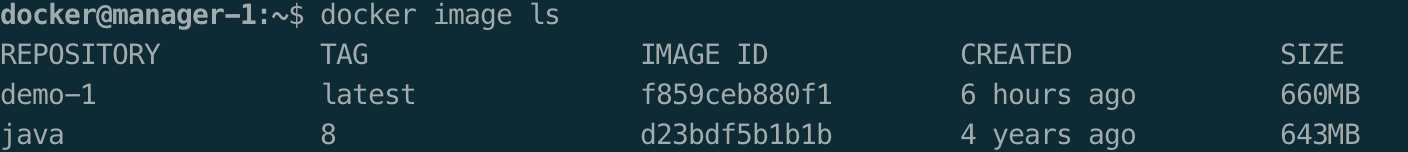
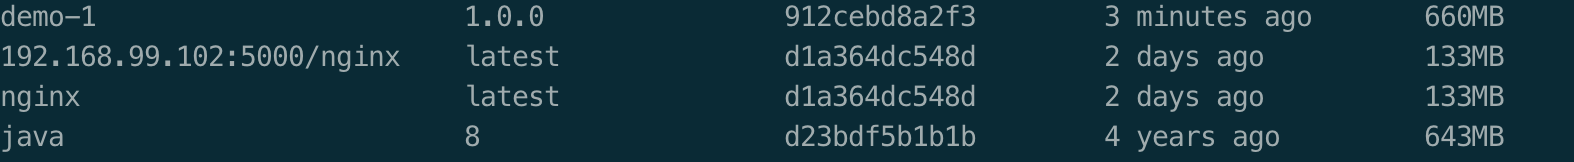
Site updated: 2021-05-28 18:11:16

diff --git a/2021/03/07/Docker-Swarm入门/index.html b/2021/03/07/Docker-Swarm入门/index.html
@@ -109,7 +109,8 @@
 <ol>
 <li><p>借助<a href="/willis-blog/2021/05/18/Docker%E5%B7%A5%E5%85%B7-Docker%20Machine/">Docker Machine</a>, 创建4个虚拟机</p>
 <figure class="highlight shell"><table><tr><td class="gutter"><pre><span class="line">1</span><br><span class="line">2</span><br><span class="line">3</span><br><span class="line">4</span><br><span class="line">5</span><br><span class="line">6</span><br><span class="line">7</span><br><span class="line">8</span><br><span class="line">9</span><br><span class="line">10</span><br></pre></td><td class="code"><pre><span class="line"><span class="meta">#</span><span class="bash"> 创建一个名为manager-1的manager节点</span></span><br><span class="line">docker-machine create -d virtualbox --engine-registry-mirror http://hub-mirror.c.163.com manager-1</span><br><span class="line"></span><br><span class="line"><span class="meta">#</span><span class="bash"> 创建三个名字分别为worker-1-1、worker-1-2、worker-1-3的worker节点</span></span><br><span class="line">docker-machine create -d virtualbox --engine-registry-mirror http://hub-mirror.c.163.com worker-1-1</span><br><span class="line">docker-machine create -d virtualbox --engine-registry-mirror http://hub-mirror.c.163.com worker-1-2</span><br><span class="line">docker-machine create -d virtualbox --engine-registry-mirror http://hub-mirror.c.163.com worker-1-3</span><br><span class="line"></span><br><span class="line"><span class="meta">#</span><span class="bash"> 查看虚拟机列表,看是否创建成功</span></span><br><span class="line">docker-machine ls</span><br></pre></td></tr></table></figure>
-<p> <img src="/willis-blog/images/2021-03-07/swarm-1.png" alt="docker-machine的虚拟机列表"></p>
+<p><img src="/willis-blog/images/2021-03-07/swarm-1.png" alt="docker-machine的虚拟机列表"><br>tips: 如果向使用自己创建的私有registry的http推送,需要在创建虚拟机时添加选项:–engine-insecure-registry IP:port,如下</p>
+<figure class="highlight shell"><table><tr><td class="gutter"><pre><span class="line">1</span><br></pre></td><td class="code"><pre><span class="line">docker-machine create -d virtualbox --engine-registry-mirror http://hub-mirror.c.163.com --engine-insecure-registry 192.168.99.102:5000 worker-1-3</span><br></pre></td></tr></table></figure>
 </li>
 <li><p>使用上述虚拟机搭建一个简单swarm集群</p>
 <figure class="highlight shell"><table><tr><td class="gutter"><pre><span class="line">1</span><br><span class="line">2</span><br><span class="line">3</span><br><span class="line">4</span><br><span class="line">5</span><br><span class="line">6</span><br><span class="line">7</span><br><span class="line">8</span><br><span class="line">9</span><br><span class="line">10</span><br><span class="line">11</span><br></pre></td><td class="code"><pre><span class="line"><span class="meta">#</span><span class="bash"> 进入虚拟机manager-1</span></span><br><span class="line">docker-machine ssh manager-1</span><br><span class="line"></span><br><span class="line"><span class="meta">#</span><span class="bash"> 在manager-1 中初始化docker</span></span><br><span class="line">docker swarm init</span><br><span class="line"></span><br><span class="line"><span class="meta">#</span><span class="bash"> 分别进入worker-1-1、worker-1-2、worker-1-3中,已worker的身份加入到swarm集群中</span></span><br><span class="line">docker-machine ssh worker-1-1</span><br><span class="line"><span class="meta">#</span><span class="bash"> 以worker身份加入swarm集群</span></span><br><span class="line">docker swarm join --token SWMTKN-1-1uj0knx6jcen266fuwbka8wpnztvj811zym3l8tu75o1p1yn44-0yid757x70ebj0grai9ntj503 192.168.99.103:2377</span><br><span class="line"></span><br></pre></td></tr></table></figure>
@@ -124,11 +125,16 @@
 <li><p>java项目镜像构建<br>sample项目地址:<a target="_blank" rel="noopener" href="https://gitee.com/willis-song/notes/tree/master/docker-java-demo">https://gitee.com/willis-song/notes/tree/master/docker-java-demo</a><br>项目基于springboot, 先试用mvn打包成可执行jar. Dockerfile内容如下</p>
 <figure class="highlight shell"><table><tr><td class="gutter"><pre><span class="line">1</span><br><span class="line">2</span><br><span class="line">3</span><br><span class="line">4</span><br><span class="line">5</span><br><span class="line">6</span><br><span class="line">7</span><br><span class="line">8</span><br></pre></td><td class="code"><pre><span class="line">FROM java:8</span><br><span class="line">WORKDIR /app</span><br><span class="line">ENV LOG_PATH=&quot;/data0/logs/java/demo-1&quot;</span><br><span class="line"><span class="meta">#</span><span class="bash"> 复制的路径是相当于build命令传入的context路径</span></span><br><span class="line">COPY ./docker-java-demo-1.0.0-SNAPSHOT.jar /app</span><br><span class="line">RUN mkdir -p /data0/logs/java/demo-1</span><br><span class="line"><span class="meta">#</span><span class="bash"> 运行java程序</span></span><br><span class="line">CMD [&quot;java&quot;, &quot;-jar&quot;, &quot;docker-java-demo-1.0.0-SNAPSHOT.jar&quot;]</span><br></pre></td></tr></table></figure>
 <p>Dockerfile常用方法参考<a href="https://willis-song.gitee.io/willis-blog/2020/11/09/Docker%E5%88%9D%E6%8E%A2/">Docker初探</a><br>在管理者节点manager-1上build镜像.<br>注意: 本例没有搭建registry,为了保证每个工作节点能正常发布,需要在每个worker节点的docker上构建镜像.当使用了自己的registry后,只要构建镜像并推送上去后,其他worker节点也适用同一个registry就可以直接拉取镜像下来了.</p>
-<figure class="highlight shell"><table><tr><td class="gutter"><pre><span class="line">1</span><br></pre></td><td class="code"><pre><span class="line">docker image build -t demo-1 .</span><br></pre></td></tr></table></figure>
+<figure class="highlight shell"><table><tr><td class="gutter"><pre><span class="line">1</span><br></pre></td><td class="code"><pre><span class="line">docker image build -t demo-1:1.0.0 .</span><br></pre></td></tr></table></figure>
 <p> <img src="/willis-blog/images/2021-03-07/swarm-3.png" alt="docker镜像列表"></p>
 </li>
+<li><p>将本地镜像打标签到私有registry(这一步是为了实现完整流程)</p>
+<figure class="highlight shell"><table><tr><td class="gutter"><pre><span class="line">1</span><br><span class="line">2</span><br><span class="line">3</span><br><span class="line">4</span><br><span class="line">5</span><br><span class="line">6</span><br><span class="line">7</span><br><span class="line">8</span><br></pre></td><td class="code"><pre><span class="line">docker@manager-1:~/app/demo$ docker image tag demo-1:1.0.0 192.168.99.102:5000/demo-1:1.0.0</span><br><span class="line">docker@manager-1:~/app/demo$ docker image ls</span><br><span class="line">REPOSITORY                   TAG                 IMAGE ID            CREATED             SIZE</span><br><span class="line">192.168.99.102:5000/demo-1   1.0.0               912cebd8a2f3        49 seconds ago      660MB</span><br><span class="line">demo-1                       1.0.0               912cebd8a2f3        49 seconds ago      660MB</span><br><span class="line">192.168.99.102:5000/nginx    latest              d1a364dc548d        2 days ago          133MB</span><br><span class="line">nginx                        latest              d1a364dc548d        2 days ago          133MB</span><br><span class="line">java                         8                   d23bdf5b1b1b        4 years ago         643MB</span><br></pre></td></tr></table></figure>
+<p>推送到registry</p>
+<figure class="highlight shell"><table><tr><td class="gutter"><pre><span class="line">1</span><br><span class="line">2</span><br><span class="line">3</span><br><span class="line">4</span><br><span class="line">5</span><br><span class="line">6</span><br><span class="line">7</span><br><span class="line">8</span><br><span class="line">9</span><br><span class="line">10</span><br><span class="line">11</span><br><span class="line">12</span><br><span class="line">13</span><br><span class="line">14</span><br></pre></td><td class="code"><pre><span class="line">docker@manager-1:~/app/demo$ docker push 192.168.99.102:5000/demo-1</span><br><span class="line">The push refers to repository [192.168.99.102:5000/demo-1]</span><br><span class="line">f44ff3f93624: Pushed</span><br><span class="line">510897158acc: Pushed</span><br><span class="line">be1619722210: Pushed</span><br><span class="line">35c20f26d188: Pushed</span><br><span class="line">c3fe59dd9556: Pushed</span><br><span class="line">6ed1a81ba5b6: Pushed</span><br><span class="line">a3483ce177ce: Pushed</span><br><span class="line">ce6c8756685b: Pushed</span><br><span class="line">30339f20ced0: Pushed</span><br><span class="line">0eb22bfb707d: Pushed</span><br><span class="line">a2ae92ffcd29: Pushed</span><br><span class="line">1.0.0: digest: sha256:6acb2c43bbc098f21fab4e2f91ffa82aa85f3e051114f43eec9e9814aa1d316a size: 2626</span><br></pre></td></tr></table></figure>
+</li>
 <li><p>创建swarm服务</p>
-<figure class="highlight shell"><table><tr><td class="gutter"><pre><span class="line">1</span><br><span class="line">2</span><br></pre></td><td class="code"><pre><span class="line"><span class="meta">#</span><span class="bash"> 运行demo-1镜像,3 个运行副本</span></span><br><span class="line">docker service create --replicas 3 --name demo-1-instance -p 8080:8080 demo-1</span><br></pre></td></tr></table></figure>
+<figure class="highlight shell"><table><tr><td class="gutter"><pre><span class="line">1</span><br><span class="line">2</span><br></pre></td><td class="code"><pre><span class="line"><span class="meta">#</span><span class="bash"> 运行demo-1镜像,3 个运行副本</span></span><br><span class="line">docker service create --replicas 3 --name demo-1-instance -p 8080:8080 192.168.99.102:5000/demo-1:1.0.0</span><br></pre></td></tr></table></figure>
 </li>
 <li><p>查看swarm服务</p>
 </li>
@@ -139,7 +145,7 @@
 <p><img src="/willis-blog/images/2021-03-07/swarm-4.png" alt="服务列表"></p>
 </li>
 <li><p>查看服务详情</p>
-<figure class="highlight shell"><table><tr><td class="gutter"><pre><span class="line">1</span><br></pre></td><td class="code"><pre><span class="line">docker service ps demo-1-instance</span><br></pre></td></tr></table></figure>
+<figure class="highlight shell"><table><tr><td class="gutter"><pre><span class="line">1</span><br><span class="line">2</span><br><span class="line">3</span><br><span class="line">4</span><br><span class="line">5</span><br></pre></td><td class="code"><pre><span class="line">docker@manager-1:~/app/demo$ docker service ps demo-1-instance</span><br><span class="line">ID                  NAME                IMAGE                              NODE                DESIRED STATE       CURRENT STATE            ERROR               PORTS</span><br><span class="line">2g7qgutmjr1u        demo-1-instance.1   192.168.99.102:5000/demo-1:1.0.0   worker-1-2          Running             Running 17 seconds ago</span><br><span class="line">u83yspo0nezg        demo-1-instance.2   192.168.99.102:5000/demo-1:1.0.0   manager-1           Running             Running 38 seconds ago</span><br><span class="line">l5nh9no1o8gv        demo-1-instance.3   192.168.99.102:5000/demo-1:1.0.0   worker-1-1          Running             Running 37 seconds ago</span><br></pre></td></tr></table></figure>
 <p><img src="/willis-blog/images/2021-03-07/swarm-5.png" alt="demo-1-instance详情"><br>根据命令显示,三个副本,分别运行在manager-1节点、worker-1-1、worker-1-2上. 可以分别进入三台虚拟机,并查看三个节点上运行的docker容器.<br><img src="/willis-blog/images/2021-03-07/swarm-6.png" alt="节点运行的容器列表"></p>
 </li>
 <li><p>查看service的配置</p>
@@ -152,7 +158,7 @@
 <blockquote>
 <p>在创建服务时也可以通过–network指定网络. 指定的网络可以通过docker network create进行创建</p>
 </blockquote>
-<ol start="6">
+<ol start="7">
 <li><p>请求<br>随意通过任何一个节点的ip进行访问,请求会通过负载均衡路由到其中一个节点的一个容器中.<br>如:<a target="_blank" rel="noopener" href="http://192.168.99.103:8080/demo/host">http://192.168.99.103:8080/demo/host</a></p>
 <p> <img src="/willis-blog/images/2021-03-07/swarm-7.png" alt="访问结果-1"><br> <img src="/willis-blog/images/2021-03-07/swarm-8.png" alt="访问结果-2"><br> <img src="/willis-blog/images/2021-03-07/swarm-9.png" alt="访问结果-3"></p>
 <p> <img src="https://docs.docker.com/engine/swarm/images/ingress-routing-mesh.png" alt="swarm集群路由"></p>

diff --git a/2021/05/13/docker网络模型/index.html b/2021/05/13/docker网络模型/index.html
@@ -2,7 +2,7 @@
 <li>设计标准<br>CNM: 容器网络模型(Container network model), 是容器网络的设计标准,一套规范. 它规定了docker网络架构的基础组成要素.<ol>
 <li><strong>沙盒(SandBox)</strong>: 一个独立的网络栈,或者网络命名空间。其中包括以太网接口、端口、路由表以及 DNS 配置</li>
 <li><strong>终端(End Point)</strong>: 虚拟网络接口。就像普通网络接口一样，负责接收网络连接,如一个veth对. 一个沙盒可能包含多个Endpoint*。</li>
-<li><strong>网络(Network)</strong>: 802.1d 网桥（类似大家熟知的交换机）的「软件实现」.网络就是需要交互的终端的集合，并且终端之间相互独立。这个模块的作用就是保证容器之间的通信.<br><a target="_blank" rel="noopener" href="https://www.cnblogs.com/wpqwpq/p/5720606.html">什么是网桥</a><br>CNM模型参考下图<br><img src="http://c.biancheng.net/uploads/allimg/190418/4-1Z41Q55GJ60.gif" alt="CNM模型组成"><br>网络互联模型参考下图<br><img src="http://c.biancheng.net/uploads/allimg/190418/4-1Z41Q60051393.gif" alt="网络互联"></li>
+<li><strong>网络(Network)</strong>: 802.1d 网桥（类似大家熟知的交换机）的「软件实现」.网络就是需要交互的终端的集合，并且终端之间相互独立。这个模块的作用就是保证容器之间的通信.<br><a target="_blank" rel="noopener" href="https://www.cnblogs.com/wpqwpq/p/5720606.html">什么是网桥</a><br>CNM模型参考下图<br><img src="http://c.biancheng.net/uploads/allimg/190418/4-1Z41Q55GJ60.gif" alt="CNM模型组成"><br>网络互联模型参考下图<br><img src="http://c.biancheng.net/uploads/allimg/190418/4-1Z41Q60051393.gif" alt="网络互联"> </li>
 </ol>
 </li>
 </ul>
@@ -18,7 +18,7 @@
 </ul>
 <p>具体网络说明:</p>
 <ul>
-<li><p>ingress: 是一个特殊的overlay网络, 用于服务节点之间的「负载均衡」.当然和swarm节点在发布端口上接收到请求时,会将请求提交给一个IPVS模块. IPVS模块跟踪该服务的所有ip地址,选择其中一个,并通过ingress网络找到他. swarm初始化或者加入swarm集群的时候会自动创建ingress 网络.<br><img src="/willis-blog/images/2021-05-13/ingress-routing-mesh.png" alt="ingress工作模式"><br><a target="_blank" rel="noopener" href="https://docs.docker.com/engine/swarm/ingress/">官网链接</a></p>
+<li><p>ingress: 是一个特殊的overlay网络, 用于服务节点之间的「负载均衡」.当任何swarm节点在发布端口上接收到请求时,会将请求提交给一个IPVS模块. IPVS模块跟踪该服务的所有ip地址,选择其中一个,并通过ingress网络找到他. swarm初始化或者加入swarm集群的时候会自动创建ingress 网络.<br><img src="/willis-blog/images/2021-05-13/ingress-routing-mesh.png" alt="ingress工作模式"><br><a target="_blank" rel="noopener" href="https://docs.docker.com/engine/swarm/ingress/">官网链接</a></p>
 </li>
 <li><p>docker_gwbridge: 一个特殊的桥接网络. 将overlay(overlay用于连接所有swarm节点)网络连接到docker守护进程的物理网络.docker_gwbridge网络在初始化或加入集群是创建.</p>
 </li>

diff --git a/2021/03/25/Docker-Registry/index.html b/2021/03/25/Docker-Registry/index.html
@@ -10,6 +10,7 @@
 <h3 id="将镜像推送到registry中"><a href="#将镜像推送到registry中" class="headerlink" title="将镜像推送到registry中"></a>将镜像推送到registry中</h3><p>命令格式：docker push 镜像名【此时的镜像名称的格式是：registry地址/镜像名称】<br>参考官方文档：<a target="_blank" rel="noopener" href="https://docs.docker.com/registry/introduction/">Understanding image naming</a></p>
 <figure class="highlight shell"><table><tr><td class="gutter"><pre><span class="line">1</span><br><span class="line">2</span><br><span class="line">3</span><br><span class="line">4</span><br><span class="line">5</span><br></pre></td><td class="code"><pre><span class="line"><span class="meta">#</span><span class="bash"> 为镜像标记名称</span></span><br><span class="line">docker image tag alpine localhost:5000/alpine</span><br><span class="line"></span><br><span class="line"><span class="meta">#</span><span class="bash"> 将镜像推送到registry。个人实际操作过程中，镜像名称以localhost:5000开头，就会将镜像推送到这个localhost:5000registry中</span></span><br><span class="line">docker push localhost:5000/alpine</span><br></pre></td></tr></table></figure>
 
+<p>将本机景象标记到远程并打标签:<br><font size=4 color=#406F80>docker tag IMAGE[:TAG] [REGISTRY_HOST[:REGISTRY_PORT]/]REPOSITORY[:TAG]</font></p>
 <h3 id="查看registry中的镜像"><a href="#查看registry中的镜像" class="headerlink" title="查看registry中的镜像"></a>查看registry中的镜像</h3><p>访问地址：<a target="_blank" rel="noopener" href="http://registry-path/v2//_catalog">http://registry-path/v2/\_catalog</a></p>
 <figure class="highlight shell"><table><tr><td class="gutter"><pre><span class="line">1</span><br></pre></td><td class="code"><pre><span class="line">curl -X GET localhost:5000/v2/_catalog</span><br></pre></td></tr></table></figure>
 
